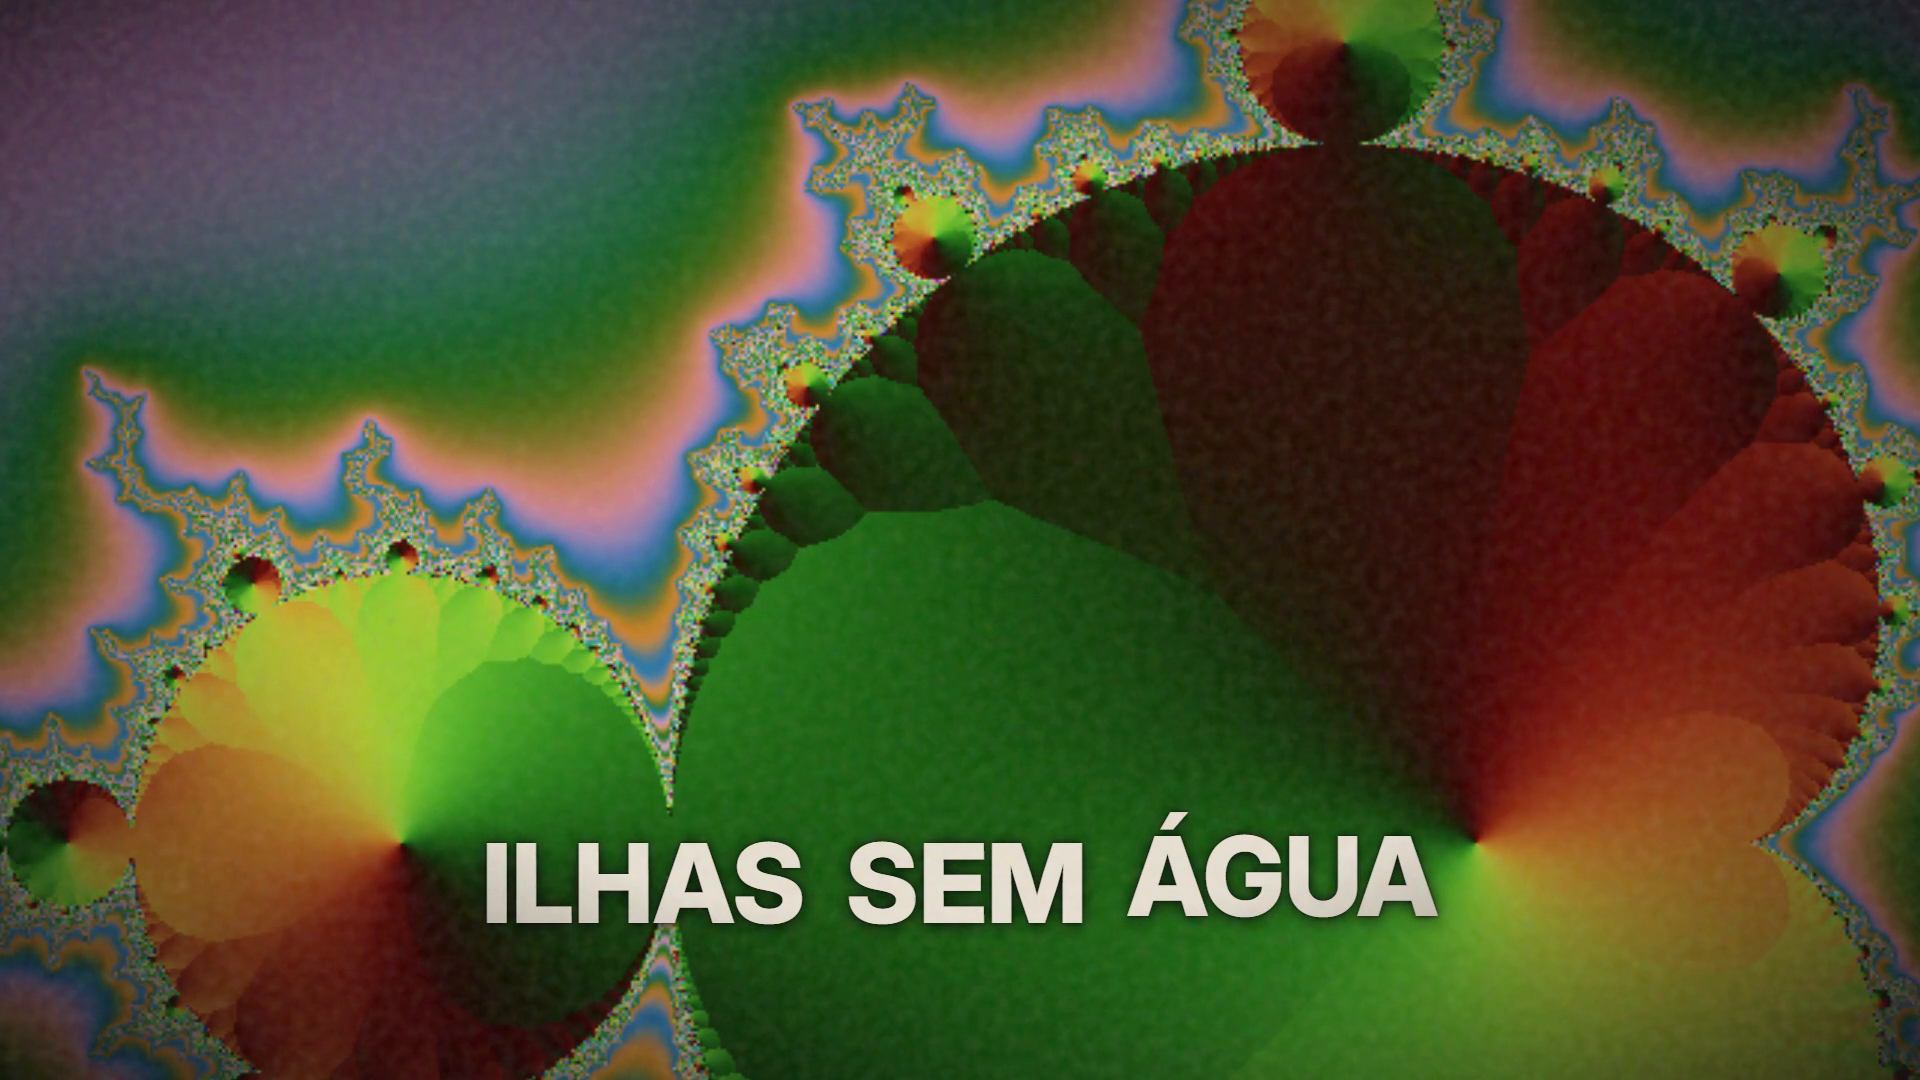
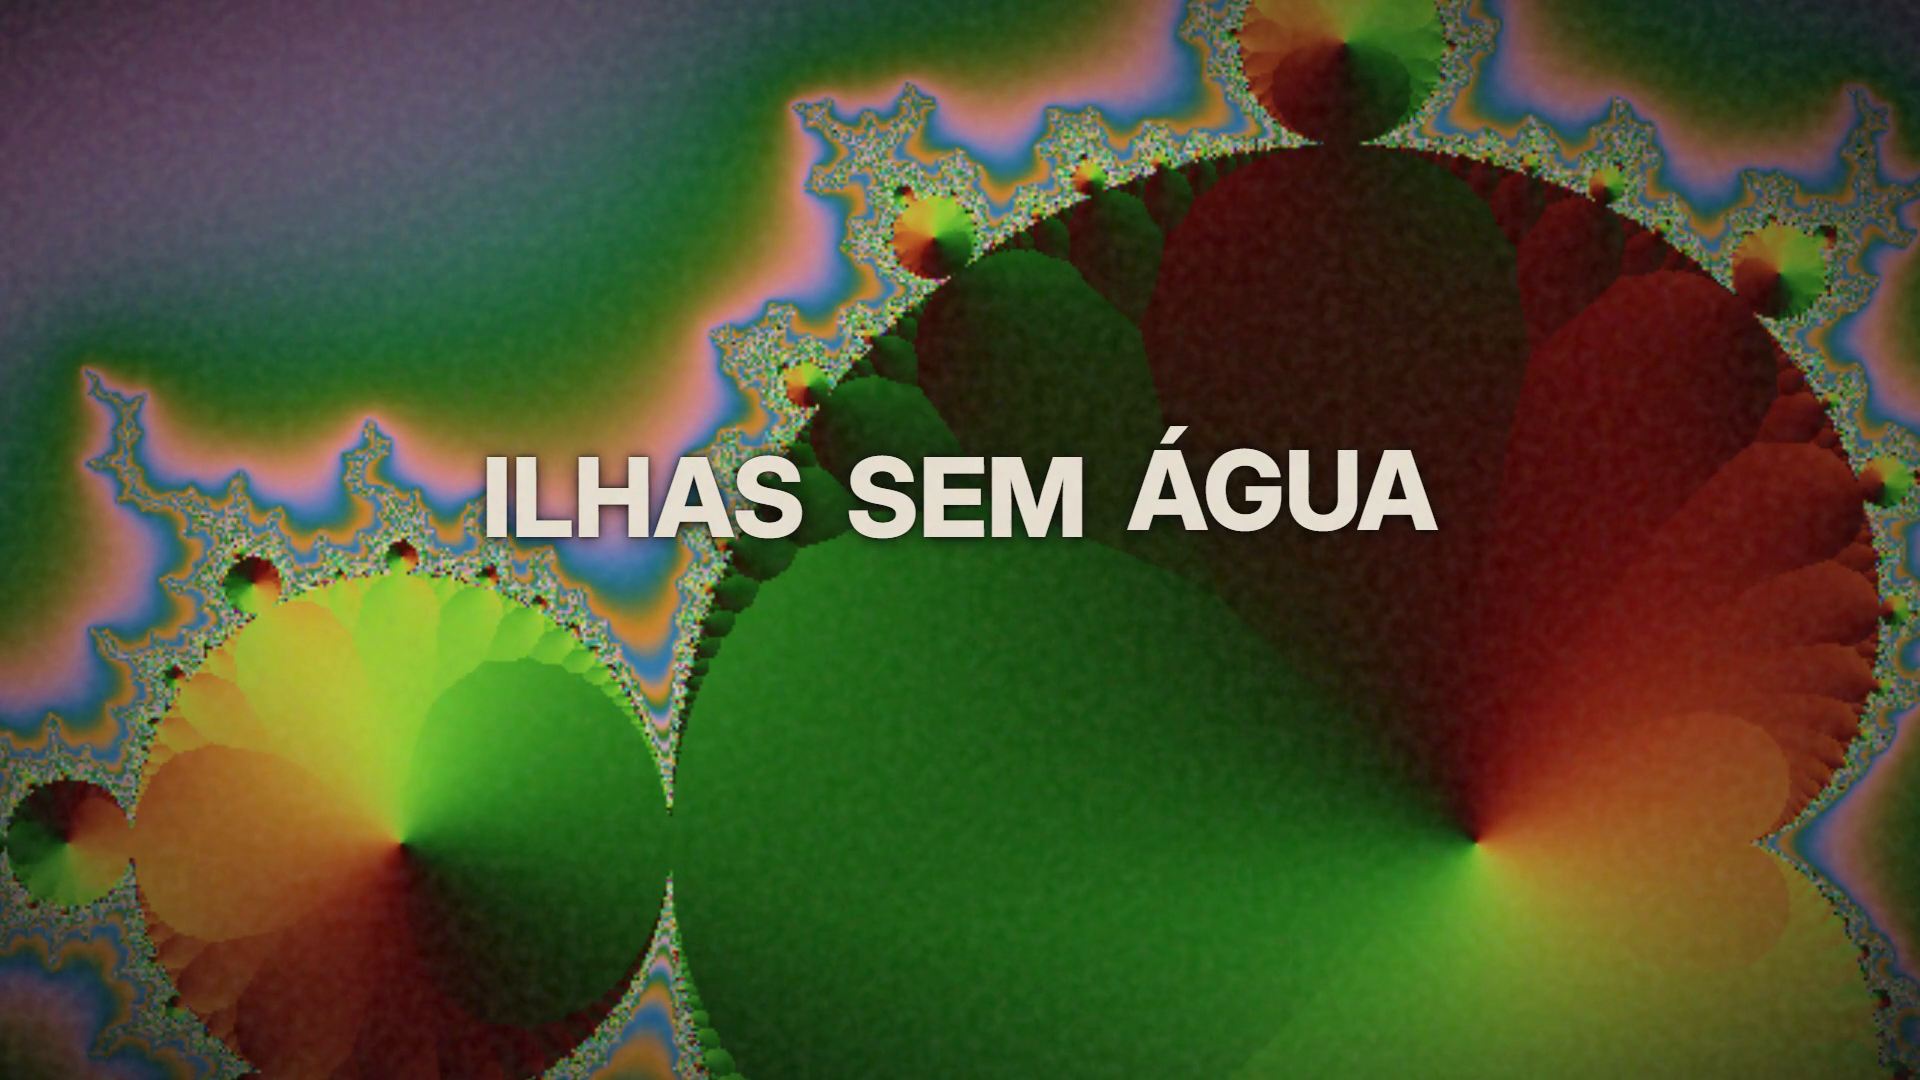
fix(motion): palavras no centro, sem colidir com rotulo/contador; documenta ffmpeg >= 7

Changed region(s): [[0.25, 0.3972, 0.75, 0.5194], [0.25, 0.7333, 0.75, 0.8556]]

diff --git a/motion/kit/doc.js b/motion/kit/doc.js
@@ -60,7 +60,8 @@
 .d-rotulo{position:absolute;left:120px;bottom:120px;padding-left:22px;border-left:4px solid var(--k-acento)}
 .d-rotulo .n{font:600 56px var(--k-display-familia)}
 .d-rotulo .p{font:600 24px var(--k-corpo-familia);letter-spacing:.2em;color:var(--k-acento);text-transform:uppercase;margin-top:6px}
-.d-palavras{position:absolute;left:120px;right:120px;bottom:130px;text-align:center;font:800 110px var(--k-corpo-familia);text-transform:uppercase}
+.d-palavras{position:absolute;left:120px;right:120px;top:430px;text-align:center;font:800 110px var(--k-corpo-familia);text-transform:uppercase}
+.d-palavras.c{right:700px}  /* cena com contador: fica à esquerda do painel (x>=1240) */
 .d-palavras span{display:inline-block;margin:0 20px;position:relative;opacity:0}
 .d-risco{position:absolute;left:0;right:0;top:52%;height:12px;background:#C0392B;transform:scaleX(0);transform-origin:left}
 .d-veu{position:absolute;inset:0;background:rgba(0,0,0,.55)}
@@ -270,7 +271,7 @@
     },
 
     palavras(ctx, b) {
-      const box = el("div", "d-palavras t"), { tl } = ctx.c;
+      const box = el("div", "d-palavras t" + (ctx.beats.some((o) => o.faz === "contador") ? " c" : "")), { tl } = ctx.c;
       const ats = b.ats.length ? b.ats : b.palavras.map((_, i) => b.at + i * 0.3);
       const limpa = (w) => String(w).replace(/#\d+$/, "");
       mostra(tl, box, b.at);

diff --git a/ui/test_motion.py b/ui/test_motion.py
@@ -751,6 +751,34 @@ BEATS_TODOS = [
 
 @pw
 @pytest.mark.skipif(shutil.which("ffmpeg") is None, reason="sem ffmpeg")
+@pytest.mark.parametrize("com_contador", [False, True])
+def test_doc_rotulo_e_palavras_nao_se_sobrepoem(tmp_path, com_contador):
+    from playwright.sync_api import sync_playwright
+    p, d = _doc(tmp_path)
+    beats = [{"faz": "rotulo", "nome": "Kieran Hosty", "papel": "mergulhador", "s": 0.2},
+             {"faz": "palavras", "palavras": ["naufrágio", "notável"], "s": 0.3, "ts": [0.3, 0.5]}]
+    if com_contador:
+        beats.append({"faz": "contador", "valor": 300, "legenda": "sobreviventes", "pontos": True, "s": 0.2})
+    d["cenas"][0]["beats"] = beats
+    (p / "cenas.json").write_text(json.dumps(d, ensure_ascii=False), encoding="utf-8")
+    assert motion.montar(p)["ok"]
+    with sync_playwright() as pw_:
+        b = pw_.chromium.launch(args=["--allow-file-access-from-files"])
+        pg = b.new_page(viewport={"width": 1920, "height": 1080})
+        pg.goto((p / "motion" / "index.html").resolve().as_uri())
+        pg.wait_for_function("window.__kit !== undefined")
+        sels = [".d-rotulo", ".d-palavras"] + ([".d-painel"] if com_contador else [])
+        rs = pg.evaluate("""([t, sels]) => { __kit.ir(t); return sels.map(s => {
+            const r = document.querySelector('#c01 ' + s).getBoundingClientRect();
+            return [r.left, r.top, r.right, r.bottom]; }); }""", [1.0, sels])
+        b.close()
+    for i, a in enumerate(rs):
+        for c in rs[i + 1:]:
+            assert a[2] <= c[0] or c[2] <= a[0] or a[3] <= c[1] or c[3] <= a[1], (sels, rs)
+
+
+@pw
+@pytest.mark.skipif(shutil.which("ffmpeg") is None, reason="sem ffmpeg")
 def test_doc_todos_os_beats_montam_com_cues(tmp_path):
     p, d = _doc(tmp_path)
     d["cenas"][0]["beats"] = BEATS_TODOS

diff --git a/ui/audio.py b/ui/audio.py
@@ -13,7 +13,7 @@ from pathlib import Path
 import budget
 import pipeline
 
-FFMPEG = "ffmpeg"
+FFMPEG = "ffmpeg"  # exige ffmpeg >= 7: mix_sfx usa -/filter_complex <arquivo>
 FFPROBE = "ffprobe"
 ROOT = pipeline.ROOT
 

diff --git a/README.md b/README.md
@@ -11,3 +11,7 @@ fora do repo).
 
 Mídia (vídeos brutos, trilhas, exports, sessões de edição) fica fora do Git —
 ver `.gitignore`.
+
+## Requisitos
+
+- ffmpeg >= 7 (`audio.mix_sfx` usa `-/filter_complex <arquivo>`)
